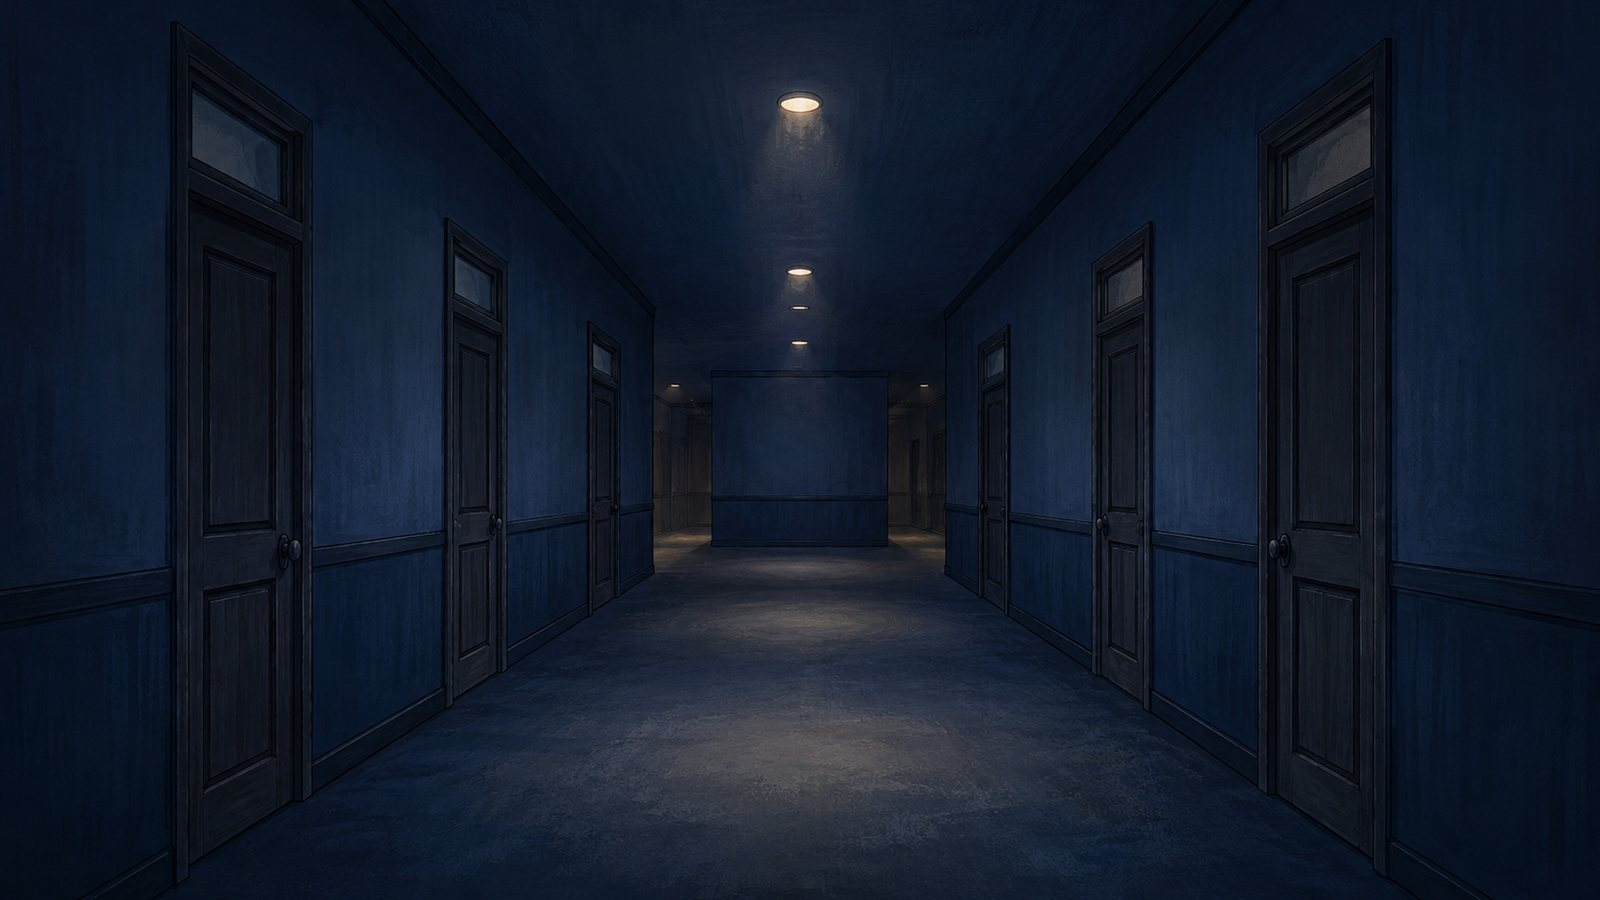
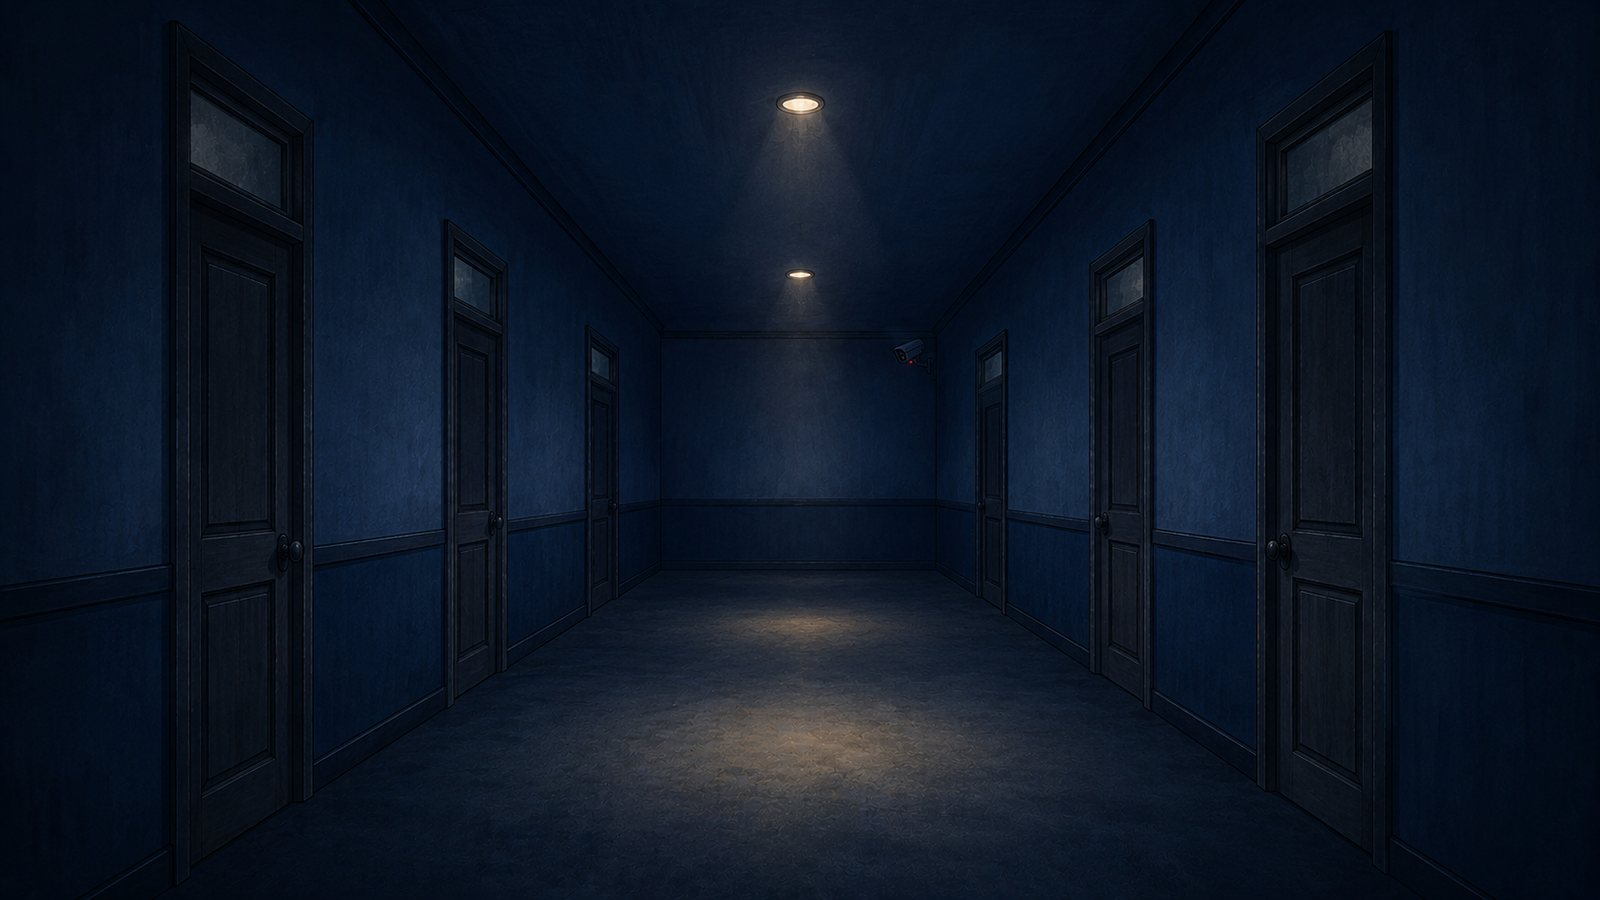
fix(solo): 복도 끝을 T자 막다른 벽 + CCTV로 재생성 (main.jpg)
- 기존 main.jpg는 복도 끝이 다른 길처럼 보였음 → 완전히 막힌
  막다른 벽 + 끝 벽 상단 CCTV 카메라(빨간 표시등)로 재생성(ChatGPT)
- 양옆 방문 3개씩·화풍 유지
- 방문 위치 이동에 맞춰 HALL_DOORS 핫스팟 %좌표 재보정

diff --git a/src/solo/SoloApp.jsx b/src/solo/SoloApp.jsx
@@ -431,12 +431,12 @@ function DoorCard({ loc, collectedSet, locked, isCrime, recommend, onClick }) {
 //   lab    : 감식 의뢰실
 // main.jpg 위 방문 위치(%): 좌벽 근→원, 우벽 근→원 (배경 16:9를 16:9 무대에 cover)
 const HALL_DOORS = [
-  { person: '최종현', x: 9, y: 60 },
-  { person: '이가현', x: 27.5, y: 57 },
-  { person: '윤은재', x: 38.5, y: 55 },
-  { person: '박희원', x: 61, y: 55 },
-  { person: '이현지', x: 71.5, y: 57 },
-  { person: '이사랑', x: 91, y: 60 },
+  { person: '최종현', x: 14, y: 58 },
+  { person: '이가현', x: 30, y: 55 },
+  { person: '윤은재', x: 38, y: 53 },
+  { person: '박희원', x: 62, y: 53 },
+  { person: '이현지', x: 70.5, y: 55 },
+  { person: '이사랑', x: 86.5, y: 58 },
 ];
 
 function HallHot({ x, y, icon, label, sub, locked, tone, recommend, onClick }) {
